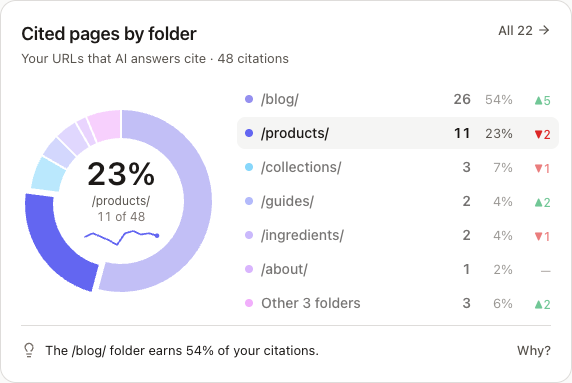
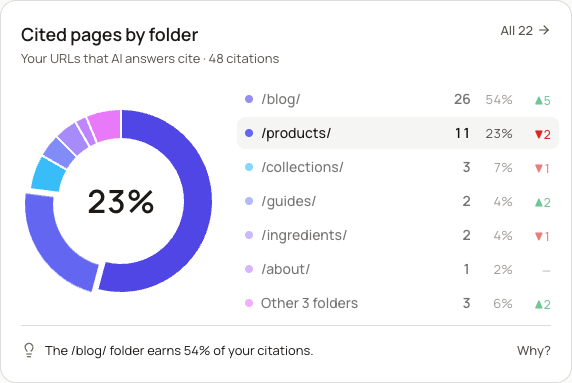
Cited pages by folder: the donut's centre shows only the percentage, at rest and on hover (owner, 2026-11-04: the name, the count and the mini trend made it cramped). Hover a slice or a row: the centre counts to that folder's % (250ms), the slice springs out 6px, the others dim to 35%, the legend ro

diff --git a/src/components/dashboard/CitedFolders.jsx b/src/components/dashboard/CitedFolders.jsx
@@ -18,8 +18,10 @@ import { OTHER, folderChange, folderInsight, folderLabel, otherChange, topFolder
 // path segment (utils/citedFolders.js: no query string or #anchor, "/" = Homepage, PDFs together), the top 6 folders
 // and "Other n folders". A donut (200px; Share of voice's palette by rank, solid fills, 2px card-colour gaps), its
 // centre the biggest folder's share, a legend (dot · folder · citations · % · change vs the sync before) and the
-// insight line. Hover a slice or a row: that slice springs out 6px, the others dim to 35%, the row highlights, the
-// centre counts to that folder's share and a 10-week trend fades in under it. Click: the drawer on that folder.
+// insight line. The centre is ONLY the percentage (owner, 2026-11-04: a name, a count and a trend made it cramped;
+// the legend row carries the name and count, the drawer the trend). Hover a slice or a row: that slice springs out
+// 6px, the others dim to 35%, the row highlights, the centre counts to that folder's share (250ms); leaving: back to
+// the biggest folder's. Click: the drawer on that folder.
 const HOVER_DELAY = 60 // ms: sweeping across slices doesn't flicker through each one
 const SIZE = 200, C = 100, R = 92, HOLE = 62, PUSH = 6
 const reduced = () => typeof window !== 'undefined' && window.matchMedia?.('(prefers-reduced-motion: reduce)').matches
@@ -44,25 +46,7 @@ export function FolderDelta({ d, className = 'text-[12px] leading-4' }) {
   return <span className={`${className} whitespace-nowrap font-medium tabular-nums ${d > 0 ? 'text-[var(--rep-up-fg)]' : 'text-negative'}`}>{d > 0 ? '▲' : '▼'}{Math.abs(d)}</span>
 }
 
-// a folder's 10 weeks as a small line (oldest → newest), in its slice colour
-export function Trend({ values, color, w = 72, h = 18 }) {
-  const v = values.map((x) => x ?? null)
-  const nums = v.filter((x) => x != null)
-  if (nums.length < 2) return null
-  const lo = Math.min(...nums), hi = Math.max(...nums)
-  const y = (x) => (hi === lo ? h / 2 : h - 2 - ((x - lo) / (hi - lo)) * (h - 4))
-  const step = w / (v.length - 1)
-  const pts = v.map((x, i) => (x == null ? null : `${(i * step).toFixed(1)},${y(x).toFixed(1)}`)).filter(Boolean).join(' ')
-  return (
-    <svg width={w} height={h} viewBox={`0 0 ${w} ${h}`} aria-hidden className="overflow-visible">
-      <polyline points={pts} fill="none" stroke={color} strokeWidth={1.75} strokeLinecap="round" strokeLinejoin="round" />
-      <circle cx={(v.length - 1) * step} cy={y(nums.at(-1))} r={2.25} fill={color} />
-    </svg>
-  )
-}
-
-// the card's model, shared with the drawer: the latest sync's folders, the slices (top 6 + Other), whole %, changes,
-// each slice's 10-week trend
+// the card's model, shared with the drawer: the latest sync's folders, the slices (top 6 + Other), whole %, changes
 export function folderModel(domain, engine) {
   const weeks = folderWeeks(domain, engine)
   const now = weeks[0]?.groups ?? null
@@ -73,8 +57,6 @@ export function folderModel(domain, engine) {
   slices.forEach((s, i) => {
     s.pct = pct[i]
     s.change = s.key === OTHER ? otherChange(s, now, prev) : folderChange(s.key, now, prev)
-    const keys = s.key === OTHER ? s.folders : [s.key]
-    s.trend = [...weeks].reverse().map((w) => (w.groups ? w.groups.folders.filter((f) => keys.includes(f.key)).reduce((n, f) => n + f.count, 0) : null))
   })
   return { weeks, now, prev, slices, pct }
 }
@@ -158,16 +140,10 @@ export default function CitedFolders() {
                 )
               })}
             </svg>
-            {/* the centre: the biggest folder, or the hovered one (its share counts there; its trend fades in) */}
+            {/* the centre: only the share of the biggest folder, or of the hovered one (it counts there); the folder's
+                name and count are in its legend row. Screen readers still hear which folder the number is. */}
             <div className="pointer-events-none absolute inset-0 grid place-items-center" aria-live="polite">
-              <div className="flex w-[116px] flex-col items-center text-center @max-[520px]:w-[100px]">
-                <span className="text-[32px] leading-9 font-semibold text-stone-900 tabular-nums">{shownPct ?? '—'}%</span>
-                <span className="mt-0.5 w-full truncate text-[12px] leading-4 text-stone-600" title={shown.label}>{shown.label}</span>
-                <span className="text-[12px] leading-4 text-stone-500 tabular-nums">{shown.count} of {total}</span>
-                <span className={`mt-1 h-[18px] transition-opacity duration-200 ease-out ${hovered ? 'opacity-100' : 'opacity-0'}`}>
-                  {hovered && <Trend values={hovered.trend} color={hovered.color} />}
-                </span>
-              </div>
+              <span className="text-[32px] leading-9 font-semibold text-stone-900 tabular-nums">{shownPct ?? '—'}%<span className="sr-only">, {shown.label}: {shown.count} of {total} citations</span></span>
             </div>
           </div>
 
